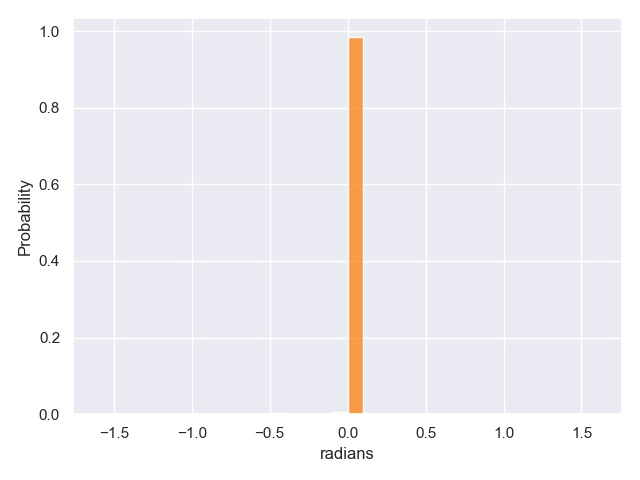
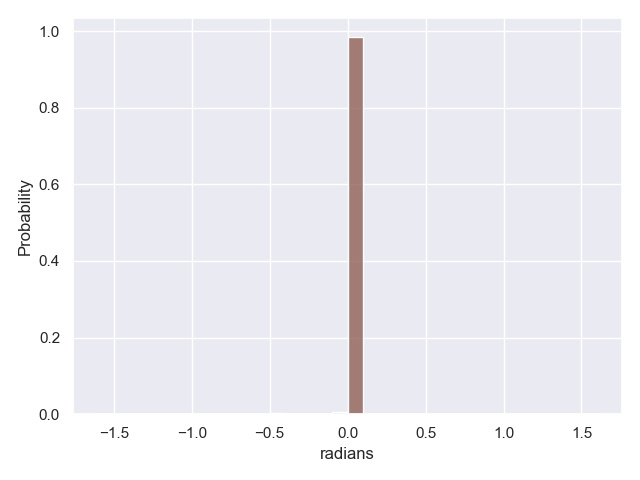
updated plots

Changed region(s): [[0.5312, 0.0625, 0.5938, 0.875]]

diff --git a/plot/plot_histograms.py b/plot/plot_histograms.py
@@ -46,6 +46,14 @@ def plot_ant_histograms():
     histogram_directory = os.getcwd() + "/plotted_histogram_results/ant"
     os.makedirs(histogram_directory, exist_ok=True)
 
+    # histogram_plot_directory = os.getcwd() + "/plotted_histogram_results/fetchreach/" + env_name
+    # os.makedirs(histogram_plot_directory, exist_ok=True)
+    #
+    # df = pd.DataFrame(fetchreach_histogram_data[0], columns=["radians"])
+    # sns.histplot(data=df, x="radians", color="tab:brown", stat="probability", bins=np.arange(0, 0.5, 0.01))
+    # plt.savefig(histogram_plot_directory + "/{}_{}_torso_lift_joint.jpg".format(env_name, algorithm))
+    # plt.close()
+
     pss.plot_settings()
     plt.hist(ant_histogram_data[0])
     plt.title("hip_1")
@@ -111,9 +119,22 @@ def plot_ant_histograms():
     plt.clf()
 
 
+def save_ant_histogram_data():
+    """
+    Save Ant histogram data.
+
+    format: .npy
+    """
+
+    histogram_data_directory = os.getcwd() + "/numerical_histogram_results/ant/" + env_name
+    os.makedirs(histogram_data_directory, exist_ok=True)
+
+    np.save(histogram_data_directory + "/{}_{}_histogram_data.npy".format(env_name, algorithm), ant_histogram_data)
+
+
 def save_ant_joint_angles(s):
     """
-    Save the Ant's joint angles.
+    Save Ant visited joint angles.
 
     @param s: float64 numpy array
         state of the environment
@@ -275,27 +296,27 @@ def plot_fetchreach_histograms():
     os.makedirs(histogram_plot_directory, exist_ok=True)
 
     df = pd.DataFrame(fetchreach_histogram_data[0], columns=["radians"])
-    sns.histplot(data=df, x="radians", color="tab:blue", stat="probability", bins=np.arange(0, 0.5, 0.01))
+    sns.histplot(data=df, x="radians", color="tab:brown", stat="probability", bins=np.arange(0, 0.5, 0.01))
     plt.savefig(histogram_plot_directory + "/{}_{}_torso_lift_joint.jpg".format(env_name, algorithm))
     plt.close()
 
     df = pd.DataFrame(fetchreach_histogram_data[1], columns=["radians"])
-    sns.histplot(data=df, x="radians", color="tab:orange", stat="probability",  bins=np.arange(-1.6, 1.7, 0.1))
+    sns.histplot(data=df, x="radians", color="tab:brown", stat="probability",  bins=np.arange(-1.6, 1.7, 0.1))
     plt.savefig(histogram_plot_directory + "/{}_{}_head_pan_joint.jpg".format(env_name, algorithm))
     plt.close()
 
     df = pd.DataFrame(fetchreach_histogram_data[2], columns=["radians"])
-    sns.histplot(data=df, x="radians", color="tab:green", stat="probability", bins=np.arange(-0.7, 1.6, 0.1))
+    sns.histplot(data=df, x="radians", color="tab:brown", stat="probability", bins=np.arange(-0.7, 1.6, 0.1))
     plt.savefig(histogram_plot_directory + "/{}_{}_head_tilt_joint.jpg".format(env_name, algorithm))
     plt.close()
 
     df = pd.DataFrame(fetchreach_histogram_data[3], columns=["radians"])
-    sns.histplot(data=df, x="radians", color="tab:red", stat="probability", bins=np.arange(-1.7, 1.8, 0.1))
+    sns.histplot(data=df, x="radians", color="tab:brown", stat="probability", bins=np.arange(-1.7, 1.8, 0.1))
     plt.savefig(histogram_plot_directory + "/{}_{}_shoulder_pan_joint.jpg".format(env_name, algorithm))
     plt.close()
 
     df = pd.DataFrame(fetchreach_histogram_data[4], columns=["radians"])
-    sns.histplot(data=df, x="radians", color="tab:purple", stat="probability", bins=np.arange(-1.3, 1.7, 0.1))
+    sns.histplot(data=df, x="radians", color="tab:brown", stat="probability", bins=np.arange(-1.3, 1.7, 0.1))
     plt.savefig(histogram_plot_directory + "/{}_{}_shoulder_lift_joint.jpg".format(env_name, algorithm))
     plt.close()
 
@@ -305,26 +326,26 @@ def plot_fetchreach_histograms():
     plt.close()
 
     df = pd.DataFrame(fetchreach_histogram_data[6], columns=["radians"])
-    sns.histplot(data=df, x="radians", color="tab:olive", stat="probability", bins=np.arange(-2.2, 2.3, 0.1))
+    sns.histplot(data=df, x="radians", color="tab:brown", stat="probability", bins=np.arange(-2.2, 2.3, 0.1))
     plt.savefig(histogram_plot_directory + "/{}_{}_wrist_flex_joint.jpg".format(env_name, algorithm))
     plt.close()
 
     df = pd.DataFrame(fetchreach_histogram_data[7], columns=["radians"])
-    sns.histplot(data=df, x="radians", color="tab:cyan", stat="probability", bins=np.arange(0.0, 0.6, 0.01))
+    sns.histplot(data=df, x="radians", color="tab:brown", stat="probability", bins=np.arange(0.0, 0.6, 0.01))
     plt.savefig(histogram_plot_directory + "/{}_{}_r_gripper_finger_joint.jpg".format(env_name, algorithm))
     plt.close()
 
     df = pd.DataFrame(fetchreach_histogram_data[8], columns=["radians"])
-    sns.histplot(data=df, x="radians", color="tab:pink", stat="probability", bins=np.arange(0.0, 0.6, 0.01))
+    sns.histplot(data=df, x="radians", color="tab:brown", stat="probability", bins=np.arange(0.0, 0.6, 0.01))
     plt.savefig(histogram_plot_directory + "/{}_{}_l_gripper_finger_joint.jpg".format(env_name, algorithm))
     plt.close()
 
 
 def save_fetchreach_histogram_data():
     """
-    Save histogram data.
+    Save FetchReach histogram data.
 
-    format: .csv
+    format: .npy
     """
 
     histogram_data_directory = os.getcwd() + "/numerical_histogram_results/fetchreach/" + env_name
@@ -335,7 +356,7 @@ def save_fetchreach_histogram_data():
 
 def save_fetchreach_joint_angles(d):
     """
-    Save the FetchReach robot's joint angles.
+    Save FetchReach visited joint angles
 
     @param d: PyMjData object (https://openai.github.io/mujoco-py/build/html/reference.html#pymjdata-time-dependent-data)
         mujoco-py simulation data
@@ -509,6 +530,8 @@ if __name__ == "__main__":
             pbar.update(1)
 
         plot_ant_histograms()
+
+        save_ant_histogram_data()
 
     elif "FetchReach" in env_name:
 
